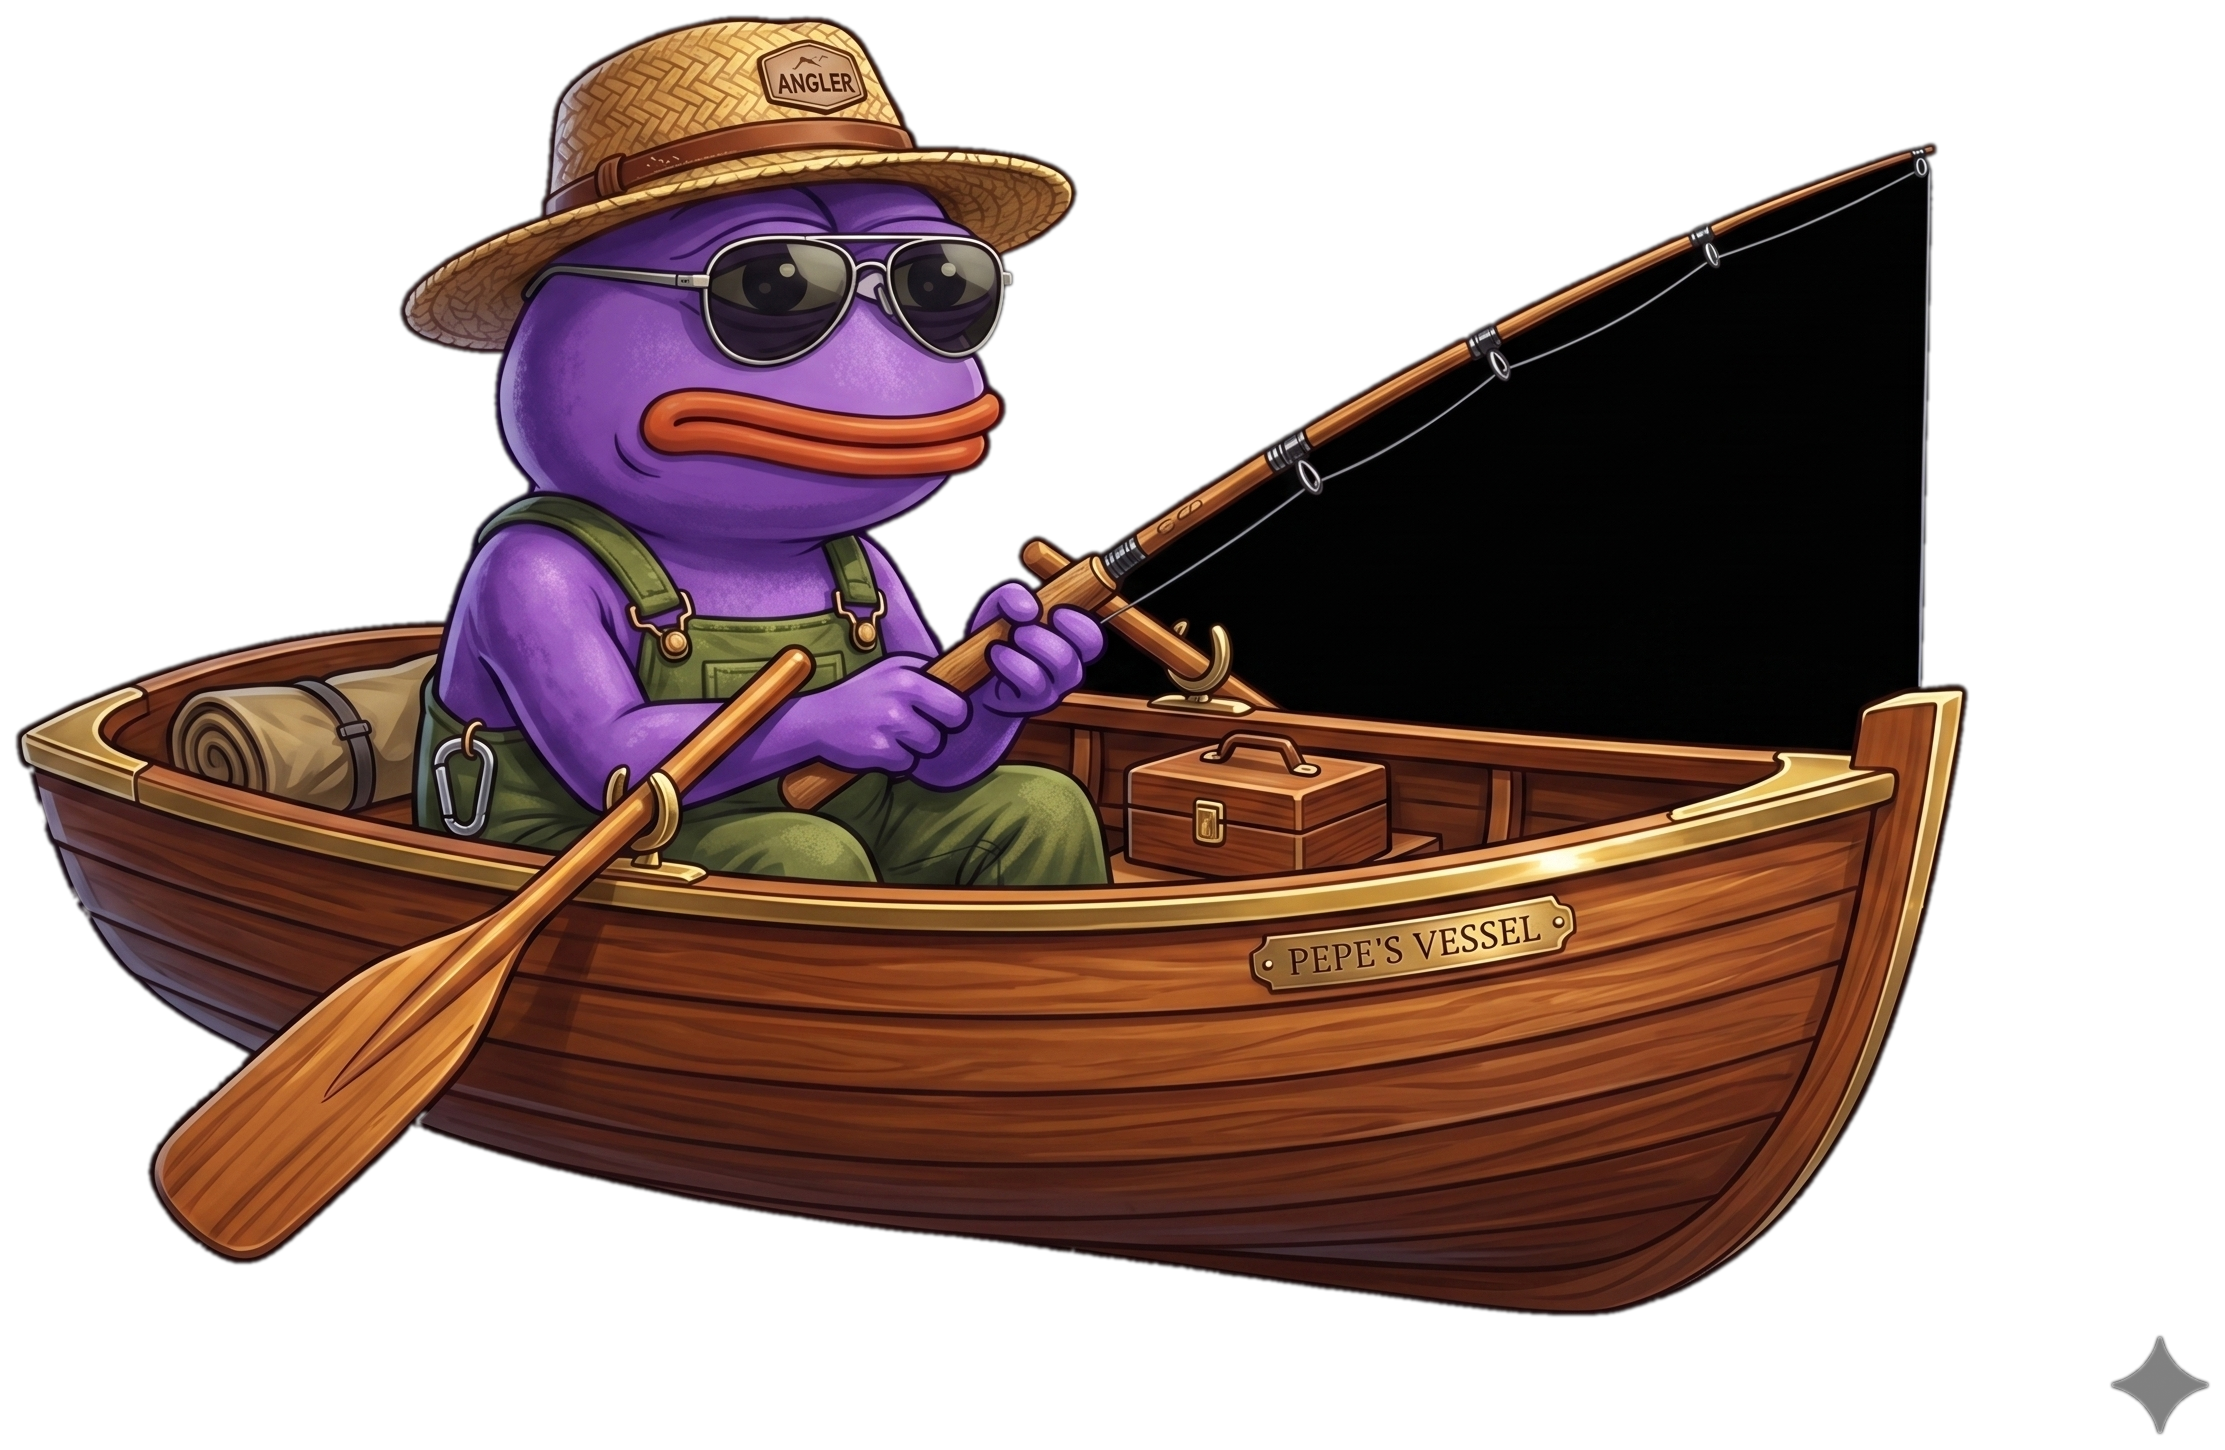
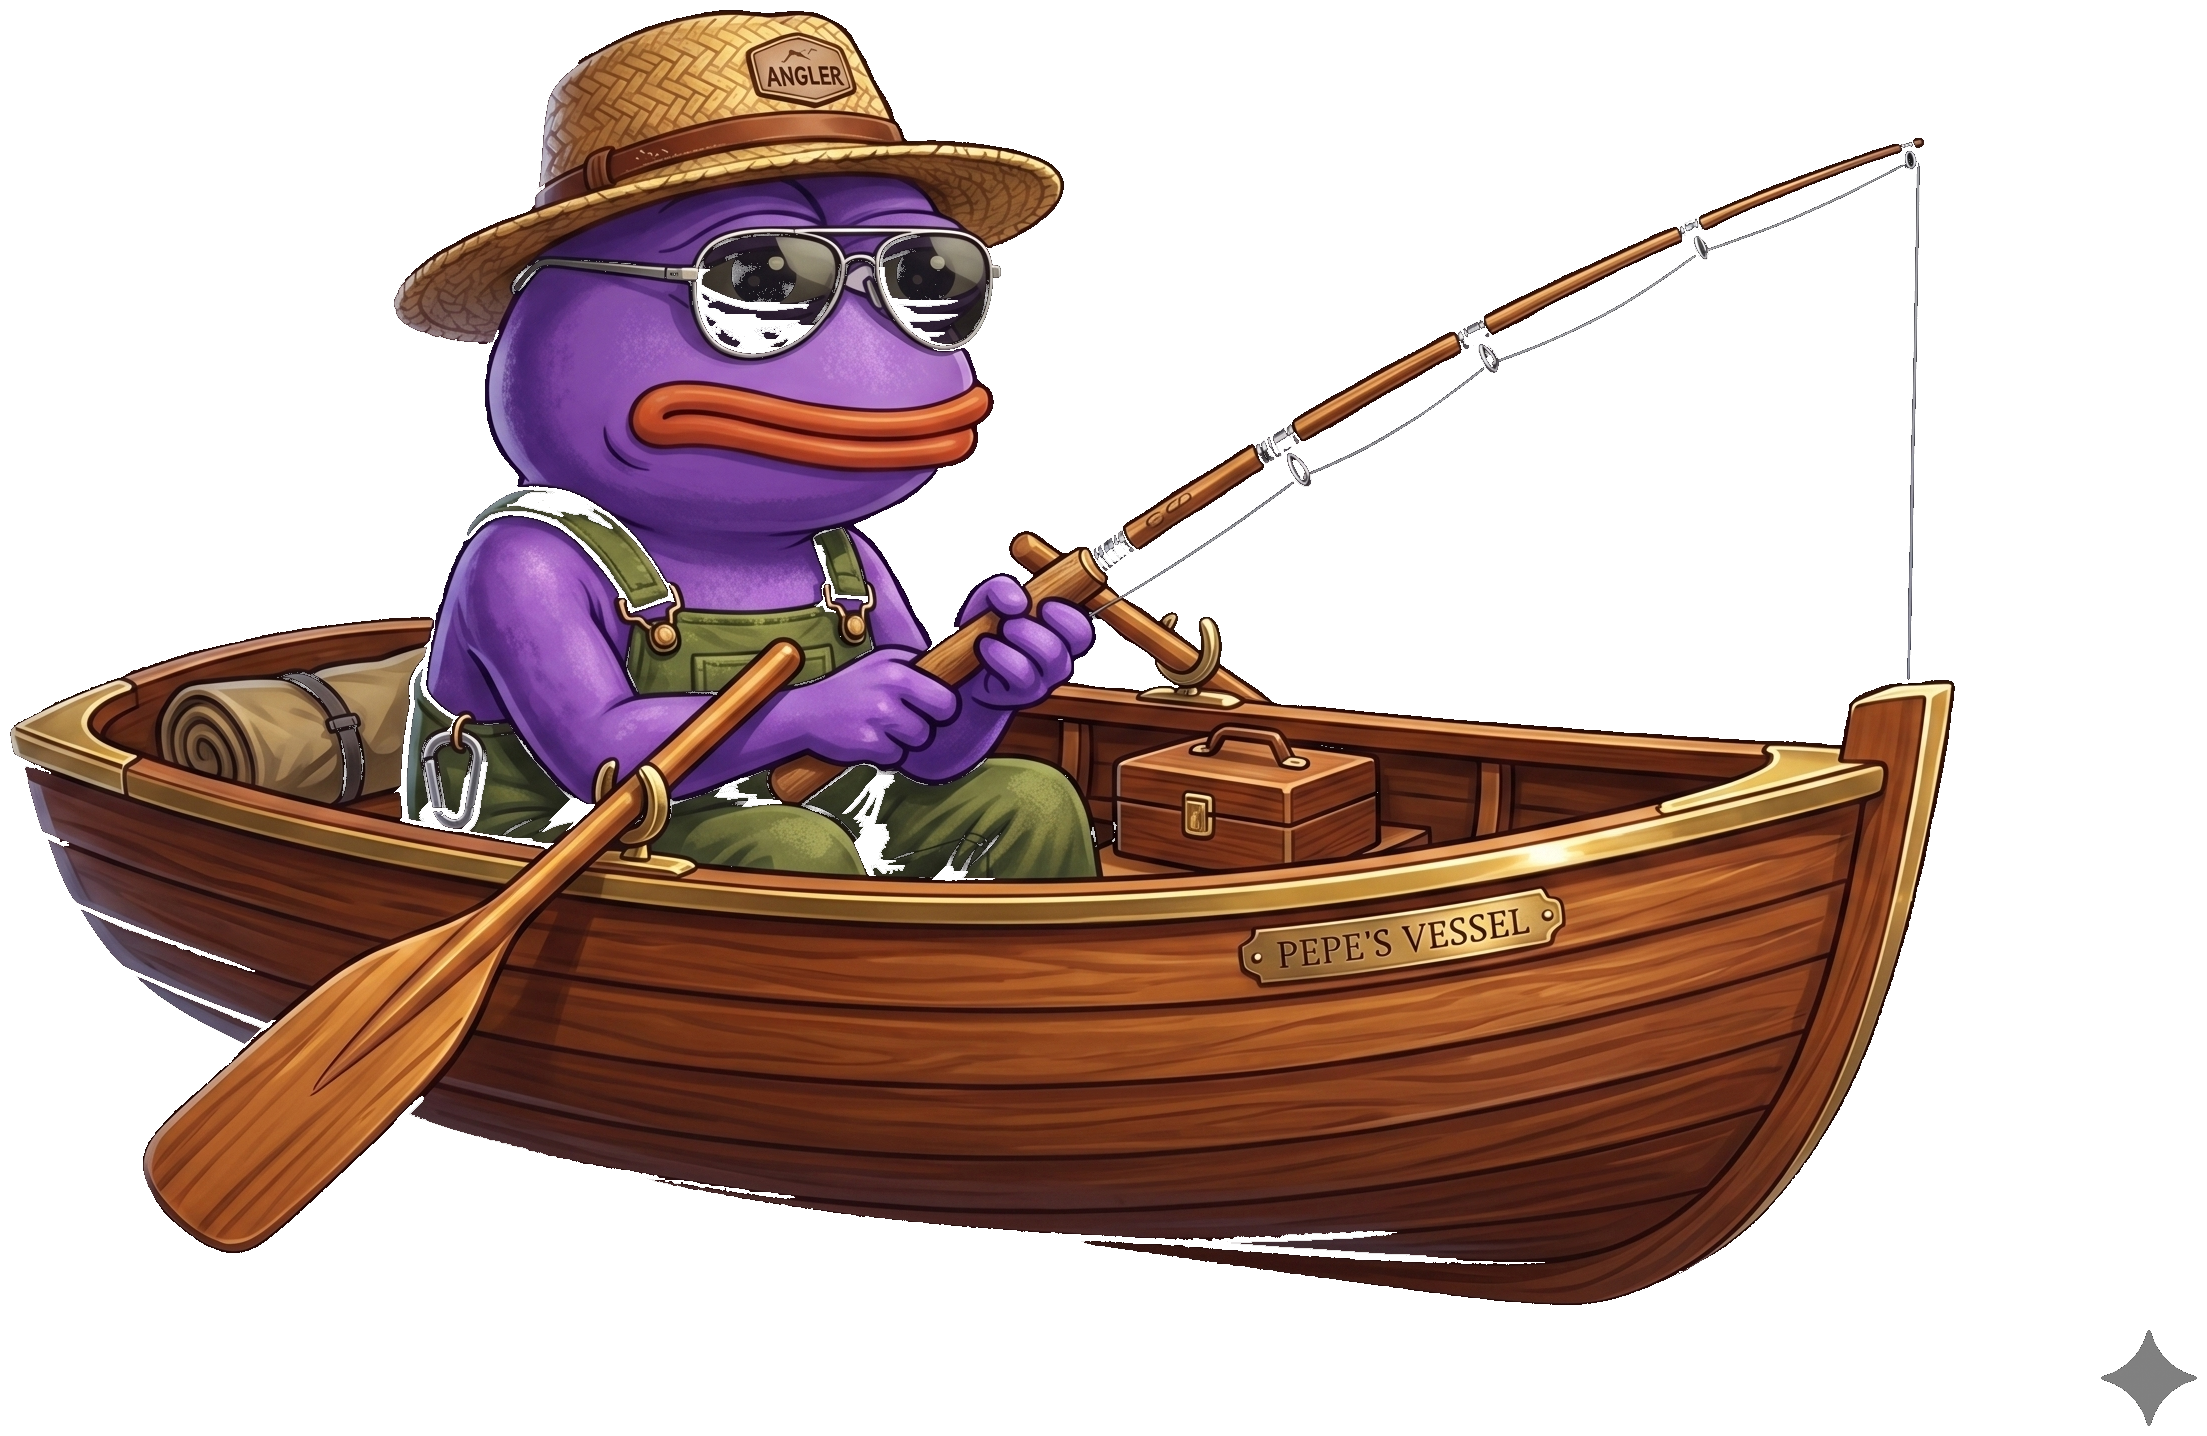
fix(game): clean pepe cutout and lift boat

Changed region(s): [[0.0, 0.0, 0.8935, 0.9192], [0.9551, 0.9192, 1.0, 1.0], [0.5854, 0.5209, 0.6162, 0.5515]]

diff --git a/src/components/game/MonadFishCanvas.tsx b/src/components/game/MonadFishCanvas.tsx
@@ -140,44 +140,44 @@ const drawBoatWaterlineOverlay = (
     waterLevel: number,
     t: number
 ) => {
-    const overlayTop = Math.max(boatY + boatDrawH * 0.52, waterLevel - 6);
-    const overlayBottom = Math.min(boatY + boatDrawH * 0.86, waterLevel + boatDrawH * 0.16);
+    const overlayTop = Math.max(boatY + boatDrawH * 0.78, waterLevel - 3);
+    const overlayBottom = Math.min(boatY + boatDrawH * 0.9, waterLevel + boatDrawH * 0.05);
 
     if (overlayBottom <= overlayTop) return;
 
     ctx.save();
     ctx.beginPath();
-    ctx.rect(boatX - 18, overlayTop - 10, boatDrawW + 36, overlayBottom - overlayTop + 22);
+    ctx.rect(boatX - 10, overlayTop - 6, boatDrawW + 20, overlayBottom - overlayTop + 12);
     ctx.clip();
 
     const fill = ctx.createLinearGradient(0, overlayTop - 4, 0, overlayBottom + 18);
-    fill.addColorStop(0, 'rgba(170, 244, 255, 0.14)');
-    fill.addColorStop(0.32, 'rgba(21, 161, 203, 0.18)');
-    fill.addColorStop(1, 'rgba(3, 51, 78, 0.08)');
+    fill.addColorStop(0, 'rgba(170, 244, 255, 0.08)');
+    fill.addColorStop(0.32, 'rgba(21, 161, 203, 0.1)');
+    fill.addColorStop(1, 'rgba(3, 51, 78, 0.03)');
     ctx.fillStyle = fill;
 
     ctx.beginPath();
-    for (let x = -18; x <= boatDrawW + 18; x += 8) {
-        const waveY = waterLevel + Math.sin(t * 2.2 + x * 0.045) * 3 + Math.cos(t * 1.2 + x * 0.018) * 1.5;
+    for (let x = -10; x <= boatDrawW + 10; x += 8) {
+        const waveY = waterLevel + Math.sin(t * 2.2 + x * 0.045) * 2 + Math.cos(t * 1.2 + x * 0.018) * 0.9;
         const drawX = boatX + x;
-        if (x === -18) ctx.moveTo(drawX, waveY);
+        if (x === -10) ctx.moveTo(drawX, waveY);
         else ctx.lineTo(drawX, waveY);
     }
-    ctx.lineTo(boatX + boatDrawW + 18, overlayBottom + 14);
-    ctx.lineTo(boatX - 18, overlayBottom + 14);
+    ctx.lineTo(boatX + boatDrawW + 10, overlayBottom + 8);
+    ctx.lineTo(boatX - 10, overlayBottom + 8);
     ctx.closePath();
     ctx.fill();
 
-    for (let i = 0; i < 3; i++) {
+    for (let i = 0; i < 2; i++) {
         ctx.beginPath();
-        for (let x = -12; x <= boatDrawW + 12; x += 10) {
-            const waveY = waterLevel + i * 4 + Math.sin(t * (2.4 + i * 0.25) + x * 0.05 + i) * (2.2 - i * 0.35);
+        for (let x = -8; x <= boatDrawW + 8; x += 10) {
+            const waveY = waterLevel + i * 3 + Math.sin(t * (2.4 + i * 0.25) + x * 0.05 + i) * (1.6 - i * 0.3);
             const drawX = boatX + x;
-            if (x === -12) ctx.moveTo(drawX, waveY);
+            if (x === -8) ctx.moveTo(drawX, waveY);
             else ctx.lineTo(drawX, waveY);
         }
-        ctx.strokeStyle = i === 0 ? 'rgba(224, 252, 255, 0.28)' : 'rgba(150, 233, 247, 0.16)';
-        ctx.lineWidth = i === 0 ? 1.8 : 1;
+        ctx.strokeStyle = i === 0 ? 'rgba(224, 252, 255, 0.2)' : 'rgba(150, 233, 247, 0.1)';
+        ctx.lineWidth = i === 0 ? 1.2 : 0.9;
         ctx.stroke();
     }
 
@@ -196,44 +196,30 @@ const drawBoatWake = (
 
     const wakeGradient = ctx.createRadialGradient(
         centerX,
-        waterLevel + 8,
+        waterLevel + 5,
         8,
         centerX,
-        waterLevel + 18,
-        boatDrawW * 0.38
+        waterLevel + 12,
+        boatDrawW * 0.24
     );
-    wakeGradient.addColorStop(0, 'rgba(210, 248, 255, 0.18)');
-    wakeGradient.addColorStop(0.45, 'rgba(97, 218, 251, 0.08)');
+    wakeGradient.addColorStop(0, 'rgba(210, 248, 255, 0.12)');
+    wakeGradient.addColorStop(0.45, 'rgba(97, 218, 251, 0.05)');
     wakeGradient.addColorStop(1, 'rgba(97, 218, 251, 0)');
     ctx.fillStyle = wakeGradient;
     ctx.beginPath();
-    ctx.ellipse(centerX, waterLevel + 18, boatDrawW * 0.32, 16, 0, 0, Math.PI * 2);
+    ctx.ellipse(centerX, waterLevel + 12, boatDrawW * 0.22, 9, 0, 0, Math.PI * 2);
     ctx.fill();
 
-    for (let i = 0; i < 4; i++) {
-        const radiusX = boatDrawW * (0.18 + i * 0.085);
-        const radiusY = 4 + i * 2.8;
-        const y = waterLevel + 8 + i * 6 + Math.sin(t * 2.1 + i) * 1.8;
+    for (let i = 0; i < 2; i++) {
+        const radiusX = boatDrawW * (0.16 + i * 0.09);
+        const radiusY = 3 + i * 1.8;
+        const y = waterLevel + 5 + i * 4 + Math.sin(t * 2.1 + i) * 1.2;
         ctx.beginPath();
         ctx.ellipse(centerX, y, radiusX, radiusY, 0, 0, Math.PI * 2);
-        ctx.strokeStyle = i === 0 ? 'rgba(225, 253, 255, 0.28)' : 'rgba(155, 234, 247, 0.14)';
-        ctx.lineWidth = i === 0 ? 1.6 : 1;
+        ctx.strokeStyle = i === 0 ? 'rgba(225, 253, 255, 0.16)' : 'rgba(155, 234, 247, 0.08)';
+        ctx.lineWidth = i === 0 ? 1 : 0.8;
         ctx.stroke();
     }
-
-    const foamSpots = [
-        centerX - boatDrawW * 0.34,
-        centerX - boatDrawW * 0.18,
-        centerX + boatDrawW * 0.22,
-        centerX + boatDrawW * 0.36,
-    ];
-    foamSpots.forEach((x, index) => {
-        const y = waterLevel + 4 + Math.sin(t * 2.8 + index * 1.4) * 2.2;
-        ctx.fillStyle = 'rgba(236, 254, 255, 0.2)';
-        ctx.beginPath();
-        ctx.ellipse(x, y, 10 + (index % 2) * 3, 2.2, 0, 0, Math.PI * 2);
-        ctx.fill();
-    });
 
     ctx.restore();
 };
@@ -570,9 +556,9 @@ const MonadFishCanvas: React.FC<MonadFishCanvasProps> = ({ onCast, gameState, la
             if (pepe) {
                 const aspect = pepe.width / pepe.height;
                 const boatDrawW = boatDrawH * aspect;
-                const bobOffsetY = Math.sin(t * 1.35) * 3.5 + Math.cos(t * 0.72) * 1.1;
+                const bobOffsetY = Math.sin(t * 1.35) * 2 + Math.cos(t * 0.72) * 0.7;
                 const driftOffsetX = Math.sin(t * 0.75) * 1.6;
-                const boatY = waterLevel - boatDrawH * 0.62 + bobOffsetY;
+                const boatY = waterLevel - boatDrawH * 0.79 + bobOffsetY;
                 const rockAngle = Math.sin(t * 1.5) * 0.015 + Math.cos(t * 0.9) * 0.006;
 
                 // Кончик удочки — вычисляем с учётом поворота лодки
@@ -822,7 +808,7 @@ const MonadFishCanvas: React.FC<MonadFishCanvasProps> = ({ onCast, gameState, la
             // Стартовая позиция = кончик удочки (пропорции из анализа спрайта)
             const boatX = w * 0.04;
             const cx = boatX + boatDrawW / 2;
-            const cy = (wl - boatDrawH * 0.62) + boatDrawH / 2;
+            const cy = (wl - boatDrawH * 0.79) + boatDrawH / 2;
             const startX = cx + boatDrawW * 0.47;
             const startY = cy - boatDrawH * 0.374;
             const targetX = w * 0.5 + Math.random() * (w * 0.3);
